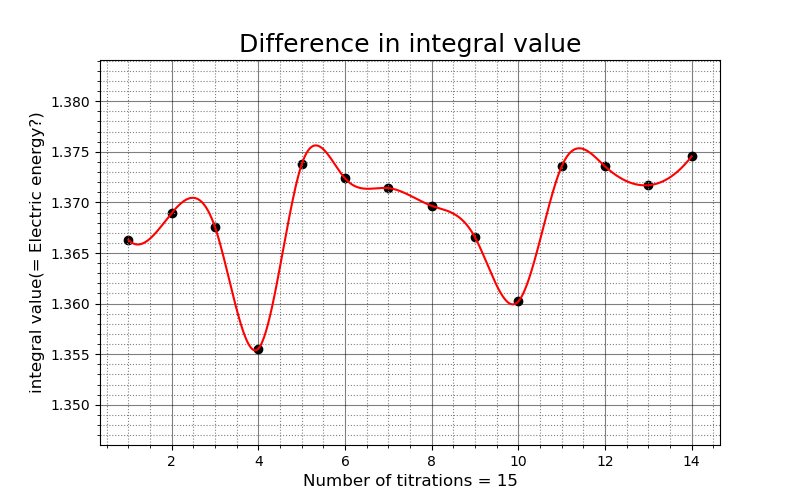
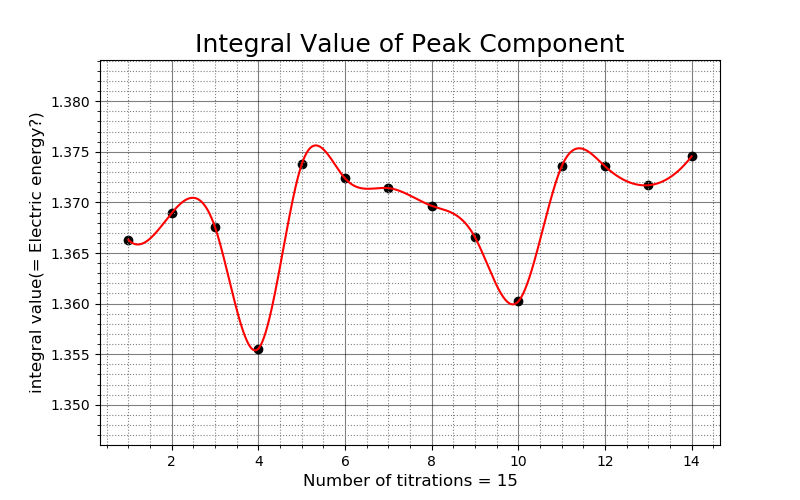
グラフの名前も変更（Integral Value of Peak Component）

Changed region(s): [[0.25, 0.06, 0.7812, 0.12]]

diff --git a/func.py b/func.py
@@ -232,7 +232,7 @@ def plot_difference_peak_noise(svd_path, output_folder_path, titration_count):
     x_diff = np.array(range(0, titration_count)) # [0~(titration_count-1)]
     differenc_peak_noise_graph_path = output_folder_path + "diff_peak_noise.png"
     plt.figure(figsize=(8, 5))  # Figureを設定
-    plt.title('Difference in integral value', fontsize=18)  # タイトルを追加
+    plt.title('Integral Value of Peak Component', fontsize=18)  # タイトルを追加
     plt.ylabel("integral value(= Electric energy?)", size="large")  # y軸ラベルを追加
     plt.xlabel("Number of titrations = " + str(titration_count), size="large")  # x軸ラベルを追加
     plt.minorticks_on()  # 補助目盛りを追加
